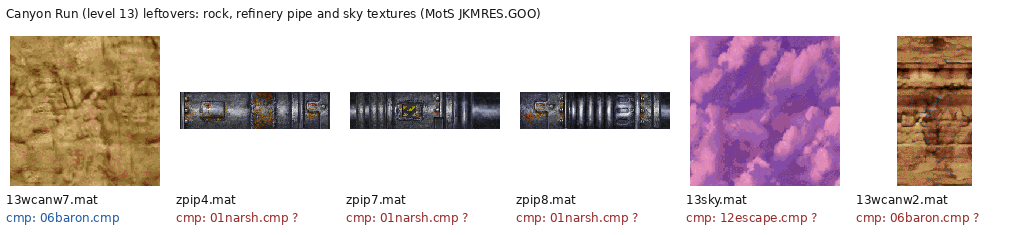
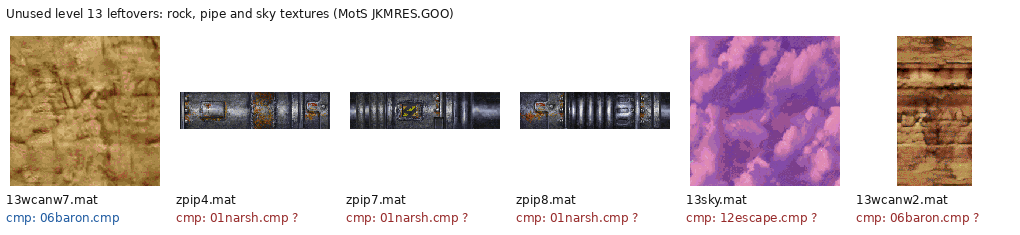
Draft v2.2: reword Findings 5 and 6 to game-file evidence only
Describe the cut level 13 from the 13pipes models, unused 13* textures,
and the episode numbering gap. Drop the former level title and any
other wording that did not come from the shipped files.

Changed region(s): [[0.0, 0.0298, 0.5471, 0.0894]]

diff --git a/tools/build_docs.py b/tools/build_docs.py
@@ -622,6 +622,7 @@ def appendix_g(mode: str) -> list[str]:
         "What changed:",
         "",
         "- Finding 2: the leftover level-05 Crow and TIE bomber animations are a paired sky dogfight; the transport animation is a path through the level. The written frame rates do not match, so the files as shipped would not finish together. Credited to Shimstock.",
+        "- Finding 5/6 reworded to rely only on game-file evidence.",
         "- Finding 7: dropped \"snowy\" as a fact about 16world. The pale colors came from a guessed MotS colormap; a complete JK colormap shows a dark valley and a tower, not snow. The colors are uncertain.",
         "- Finding 12: the voiceuu folder has 46 files, not 26. That includes 28 civilian, rebel and announcement clips (previously counted as 26), 15 Ka'Pa the Hutt lines in Huttese, and 3 Abron Mar lines from leftover in-engine cutscenes that the shipped episode never plays. Credited to Shimstock for the folder, and to a review of this catalogue for identifying Ka'Pa.",
         "- Finding 20: added rep0.3do, the repeater's earlier unused projectile. Credited to Shimstock.",

diff --git a/FINDINGS.md b/FINDINGS.md
@@ -21,8 +21,8 @@ A print-ready PDF and a zip of this version will be added on the [Releases](http
   - [3. A palette for the 05 sky textures](#finding-3)
   - [4. Other JK-era models that only ship with Mysteries of the Sith](#finding-4)
 - [B. Traces of other cut or reworked JK levels](#section-b)
-  - [5. The "13pipes" folder: props from the cut "Canyon Run" level](#finding-5)
-  - [6. Unused Canyon Run (level 13) textures](#finding-6)
+  - [5. The "13pipes" folder: props from the cut level 13](#finding-5)
+  - [6. Unused level 13 textures](#finding-6)
   - [7. 16world, 16vale and 16spir](#finding-7)
   - [8. The "06fall" set pieces](#finding-8)
 - [C. Unused dialogue](#section-c)
@@ -338,7 +338,7 @@ u2.3do:      same geometry as u2alt.3do (used); ug.3do: same geometry as ugalt.3
 ## B. Traces of other cut or reworked JK levels
 
 <a id="finding-5"></a>
-### 5. The "13pipes" folder: props from the cut "Canyon Run" level
+### 5. The "13pipes" folder: props from the cut level 13
 
 **Rating:** Likely new
 
@@ -349,9 +349,7 @@ u2.3do:      same geometry as u2alt.3do (used); ug.3do: same geometry as ugalt.3
 
 Three models come from a source folder named `LevelSpecific\13pipes\`: a canyon rock (13rock, textured with the 13wcanw7 canyon wall, a texture MotS later reused in s1l1_rebelbase), a pipe section (zpip, using zpip4/7/8) and wct3x4 (its two textures are missing). None of the three models is referenced by any file in either game, and no level-13 JKL ships in either game.
 
-Level 13 was "Canyon Run", a flying level on Sulon set right after level 12 (12escape, the escape from the cargo ship). The 1995 script, the 1996 storyboard ("The Sulon Canyons", scene 31 "Canyon Run") and the level description document describe it: the morning after the escape, Jan flies the Moldy Crow through canyons of rock and refinery while Kyle shoots TIE fighters from a top hatch. Flying too high draws fire from orbiting Star Destroyers, and the level ends by flying through the waterfall at Tankers Canyon.
-
-The 13pipes folder fits that description: canyon rock (13rock) and refinery pipes (zpip). The folder name and these models are the new part; they are the only known 3D leftovers of the level.
+The textures suggest a canyon setting: 13rock is a canyon-wall rock, and zpip is a pipe section. Together with the unused 13* textures in the next finding and the gap at slot 13 in the episode numbering (see the comments finding on the two level numberings), these are the file leftovers of a cut level 13. They are the only known 3D leftovers of that slot.
 
 **Evidence**
 
@@ -359,14 +357,11 @@ The 13pipes folder fits that description: canyon rock (13rock) and refinery pipe
 13rock.3do: ... 'D:\Jedi\Products\JK\Data\3DO\LevelSpecific\13pipes\13rock.prj in VISUAL mode with ver4.50.'
 zpip.3do:   ... '...\LevelSpecific\13pipes\Zpip.3do in VISUAL mode with ver4.11.'
 wct3x4.3do: ... '...\LevelSpecific\13pipes\wct3x4\Wct3x4.prj in VISUAL mode with ver4.60.'
-JK level description: "13 Canyon Run ... The level ends when you find the waterfall and fly through it."
-Objective: "2. Fly to the waterfall at Tankers Canyon."
 ```
 
 **Sources**
 
-- Level design: JK script (April 1995), JK storyboard (January 1996), "JK Levels Description" and "Jedi Knight Story" design documents.
-- Folder name and models: no earlier source found.
+- No earlier source found.
 
 ![13rock.3do](renders/13rock.png)
 
@@ -380,12 +375,12 @@ Objective: "2. Fly to the waterfall at Tankers Canyon."
 
 *wct3x4.3do (textures missing)*
 
-![Canyon Run textures: 13wcanw7 (13rock; MotS also reuses it in s1l1_rebelbase), zpip4/7/8 (zpip), 13sky (shown with JK 12escape.cmp, best guess) and a canyon wall](renders/swatch_13pipes.png)
+![Unused level 13 textures: 13wcanw7 (13rock; MotS also reuses it in s1l1_rebelbase), zpip4/7/8 (zpip), 13sky (shown with JK 12escape.cmp, best guess) and a canyon wall](renders/swatch_13pipes.png)
 
-*Canyon Run textures: 13wcanw7 (13rock; MotS also reuses it in s1l1_rebelbase), zpip4/7/8 (zpip), 13sky (shown with JK 12escape.cmp, best guess) and a canyon wall*
+*Unused level 13 textures: 13wcanw7 (13rock; MotS also reuses it in s1l1_rebelbase), zpip4/7/8 (zpip), 13sky (shown with JK 12escape.cmp, best guess) and a canyon wall*
 
 <a id="finding-6"></a>
-### 6. Unused Canyon Run (level 13) textures
+### 6. Unused level 13 textures
 
 **Rating:** Partly known
 
@@ -394,13 +389,13 @@ Objective: "2. Fly to the waterfall at Tankers Canyon."
 | MotS | Resource\JKMRES.GOO | mat\13wcanw1-6.mat, 13sky*.mat, 13fwat*.mat, 13wdrok*.mat, 13car*.mat, 13cnsky1/3.mat (41 files) |
 | JK | Resource\Res2.gob | mat\13frokg2.mat, mat\13wconc1.mat |
 
-MotS ships 43 textures with the 13 prefix that no MotS level loads. Checked against JK as well, 41 of them are unused in both games: canyon walls, skies, water, rock and a car/vehicle texture. They match the Canyon Run setting (Sulon canyons, a refinery, the Tankers Canyon waterfall). JK itself ships two more unused 13* textures (13frokg2, also copied into MotS, and 13wconc1). A selection is on the texture contact sheet in Appendix B.
+MotS ships 43 textures with the 13 prefix that no MotS level loads. Checked against JK as well, 41 of them are unused in both games: canyon walls, skies, water, rock and a car/vehicle texture. The textures suggest a canyon setting. JK itself ships two more unused 13* textures (13frokg2, also copied into MotS, and 13wconc1). A selection is on the texture contact sheet in Appendix B.
 
 Two are not unused: **13wcanw7** is used by MotS level s1l1_rebelbase, and MotS's copy of **13fwater** is byte-identical to the JK texture used in 04escapehouse, 06bbarons and 17asarris.
 
-The 13sky* textures are shown with JK 12escape.cmp, the colormap of level 12 (12escape), since Canyon Run is set on the same planet the morning after. That is a best guess.
+The 13sky* textures are shown with JK 12escape.cmp, the colormap of the preceding level 12 (12escape). That is a best guess.
 
-The 13cnsky set is different: it is a grey storm sky, and 13cnsky2 is used by shipped levels (15maw, 17asarris, 17bsarris, 18ascend and some multiplayer maps). Only 13cnsky1 and 13cnsky3 are unused, so this set should not be read as the Canyon Run sky.
+The 13cnsky set is different: it is a grey storm sky, and 13cnsky2 is used by shipped levels (15maw, 17asarris, 17bsarris, 18ascend and some multiplayer maps). Only 13cnsky1 and 13cnsky3 are unused, so this set should not be read as the cut level 13 sky.
 
 **Evidence**
 
@@ -1099,7 +1094,7 @@ Each finding below is classified. **Confirmed cut**: the comment shows that some
 
 The comments in JK's episode.jk number the 21 shipped levels one after another: 06ABarons.jkl is "Level 5", 06BBarons.jkl is "Level 6", 14tower.jkl is "Level 13" and 17asarris.jkl is "Level 16". The section headers in cogstrings.uni keep the old file numbers instead and simply skip two of them: "Level 4 - Escape Morgan's House" is followed by "Level 6a - Barons Hed", and "Level 12" is followed by "Level 14 - The tower Approach". 06a_startlevel.cog still says it starts the music "for level 5".
 
-The two missing numbers are exactly the two cut levels: 05 (the speeder-bike chase) and 13 (Canyon Run). The file names kept the original slots, and the player-facing numbering was closed up after the cuts. The cogstrings.uni headers also call the Katarn home "Morgan's House" and level 8 "Escape the Ballroom".
+The two missing numbers are exactly the two cut levels: 05 (the speeder-bike chase) and 13. The file names kept the original slots, and the player-facing numbering was closed up after the cuts. The cogstrings.uni headers also call the Katarn home "Morgan's House" and level 8 "Escape the Ballroom".
 
 **Evidence**
 
@@ -1806,6 +1801,7 @@ Thank you to community modder Shimstock for a set of notes that led to most of t
 What changed:
 
 - Finding 2: the leftover level-05 Crow and TIE bomber animations are a paired sky dogfight; the transport animation is a path through the level. The written frame rates do not match, so the files as shipped would not finish together. Credited to Shimstock.
+- Finding 5/6 reworded to rely only on game-file evidence.
 - Finding 7: dropped "snowy" as a fact about 16world. The pale colors came from a guessed MotS colormap; a complete JK colormap shows a dark valley and a tower, not snow. The colors are uncertain.
 - Finding 12: the voiceuu folder has 46 files, not 26. That includes 28 civilian, rebel and announcement clips (previously counted as 26), 15 Ka'Pa the Hutt lines in Huttese, and 3 Abron Mar lines from leftover in-engine cutscenes that the shipped episode never plays. Credited to Shimstock for the folder, and to a review of this catalogue for identifying Ka'Pa.
 - Finding 20: added rep0.3do, the repeater's earlier unused projectile. Credited to Shimstock.

diff --git a/docs/b-other-cut-levels.md b/docs/b-other-cut-levels.md
@@ -2,7 +2,7 @@
 
 <div class="finding-head" markdown="block">
 <span class="game-icons" aria-label="Mysteries of the Sith"><span class="game-icon game-icon--mots" title="Mysteries of the Sith">MotS</span></span>
-## 5. The "13pipes" folder: props from the cut "Canyon Run" level {#finding-5}
+## 5. The "13pipes" folder: props from the cut level 13 {#finding-5}
 </div>
 
 <p class="finding-rating">
@@ -17,9 +17,7 @@
 
 Three models come from a source folder named `LevelSpecific\13pipes\`: a canyon rock (13rock, textured with the 13wcanw7 canyon wall, a texture MotS later reused in s1l1_rebelbase), a pipe section (zpip, using zpip4/7/8) and wct3x4 (its two textures are missing). None of the three models is referenced by any file in either game, and no level-13 JKL ships in either game.
 
-Level 13 was "Canyon Run", a flying level on Sulon set right after level 12 (12escape, the escape from the cargo ship). The 1995 script, the 1996 storyboard ("The Sulon Canyons", scene 31 "Canyon Run") and the level description document describe it: the morning after the escape, Jan flies the Moldy Crow through canyons of rock and refinery while Kyle shoots TIE fighters from a top hatch. Flying too high draws fire from orbiting Star Destroyers, and the level ends by flying through the waterfall at Tankers Canyon.
-
-The 13pipes folder fits that description: canyon rock (13rock) and refinery pipes (zpip). The folder name and these models are the new part; they are the only known 3D leftovers of the level.
+The textures suggest a canyon setting: 13rock is a canyon-wall rock, and zpip is a pipe section. Together with the unused 13* textures in the next finding and the gap at slot 13 in the episode numbering (see the comments finding on the two level numberings), these are the file leftovers of a cut level 13. They are the only known 3D leftovers of that slot.
 
 **Evidence**
 
@@ -27,14 +25,11 @@ The 13pipes folder fits that description: canyon rock (13rock) and refinery pipe
 13rock.3do: ... 'D:\Jedi\Products\JK\Data\3DO\LevelSpecific\13pipes\13rock.prj in VISUAL mode with ver4.50.'
 zpip.3do:   ... '...\LevelSpecific\13pipes\Zpip.3do in VISUAL mode with ver4.11.'
 wct3x4.3do: ... '...\LevelSpecific\13pipes\wct3x4\Wct3x4.prj in VISUAL mode with ver4.60.'
-JK level description: "13 Canyon Run ... The level ends when you find the waterfall and fly through it."
-Objective: "2. Fly to the waterfall at Tankers Canyon."
 ```
 
 **Sources**
 
-- Level design: JK script (April 1995), JK storyboard (January 1996), "JK Levels Description" and "Jedi Knight Story" design documents.
-- Folder name and models: no earlier source found.
+- No earlier source found.
 
 <figure class="finding-figure" markdown="1">
 ![13rock.3do](renders/13rock.png)
@@ -52,13 +47,13 @@ Objective: "2. Fly to the waterfall at Tankers Canyon."
 </figure>
 
 <figure class="finding-figure" markdown="1">
-![Canyon Run textures: 13wcanw7 (13rock; MotS also reuses it in s1l1_rebelbase), zpip4/7/8 (zpip), 13sky (shown with JK 12escape.cmp, best guess) and a canyon wall](renders/swatch_13pipes.png)
-<figcaption>Canyon Run textures: 13wcanw7 (13rock; MotS also reuses it in s1l1_rebelbase), zpip4/7/8 (zpip), 13sky (shown with JK 12escape.cmp, best guess) and a canyon wall</figcaption>
+![Unused level 13 textures: 13wcanw7 (13rock; MotS also reuses it in s1l1_rebelbase), zpip4/7/8 (zpip), 13sky (shown with JK 12escape.cmp, best guess) and a canyon wall](renders/swatch_13pipes.png)
+<figcaption>Unused level 13 textures: 13wcanw7 (13rock; MotS also reuses it in s1l1_rebelbase), zpip4/7/8 (zpip), 13sky (shown with JK 12escape.cmp, best guess) and a canyon wall</figcaption>
 </figure>
 
 <div class="finding-head" markdown="block">
 <span class="game-icons" aria-label="Jedi Knight and Mysteries of the Sith"><span class="game-icon game-icon--jk" title="Jedi Knight">JK</span> <span class="game-icon game-icon--mots" title="Mysteries of the Sith">MotS</span></span>
-## 6. Unused Canyon Run (level 13) textures {#finding-6}
+## 6. Unused level 13 textures {#finding-6}
 </div>
 
 <p class="finding-rating">
@@ -71,13 +66,13 @@ Objective: "2. Fly to the waterfall at Tankers Canyon."
 | MotS | Resource\JKMRES.GOO | mat\13wcanw1-6.mat, 13sky*.mat, 13fwat*.mat, 13wdrok*.mat, 13car*.mat, 13cnsky1/3.mat (41 files) |
 | JK | Resource\Res2.gob | mat\13frokg2.mat, mat\13wconc1.mat |
 
-MotS ships 43 textures with the 13 prefix that no MotS level loads. Checked against JK as well, 41 of them are unused in both games: canyon walls, skies, water, rock and a car/vehicle texture. They match the Canyon Run setting (Sulon canyons, a refinery, the Tankers Canyon waterfall). JK itself ships two more unused 13* textures (13frokg2, also copied into MotS, and 13wconc1). A selection is on the texture contact sheet in Appendix B.
+MotS ships 43 textures with the 13 prefix that no MotS level loads. Checked against JK as well, 41 of them are unused in both games: canyon walls, skies, water, rock and a car/vehicle texture. The textures suggest a canyon setting. JK itself ships two more unused 13* textures (13frokg2, also copied into MotS, and 13wconc1). A selection is on the texture contact sheet in Appendix B.
 
 Two are not unused: **13wcanw7** is used by MotS level s1l1_rebelbase, and MotS's copy of **13fwater** is byte-identical to the JK texture used in 04escapehouse, 06bbarons and 17asarris.
 
-The 13sky* textures are shown with JK 12escape.cmp, the colormap of level 12 (12escape), since Canyon Run is set on the same planet the morning after. That is a best guess.
+The 13sky* textures are shown with JK 12escape.cmp, the colormap of the preceding level 12 (12escape). That is a best guess.
 
-The 13cnsky set is different: it is a grey storm sky, and 13cnsky2 is used by shipped levels (15maw, 17asarris, 17bsarris, 18ascend and some multiplayer maps). Only 13cnsky1 and 13cnsky3 are unused, so this set should not be read as the Canyon Run sky.
+The 13cnsky set is different: it is a grey storm sky, and 13cnsky2 is used by shipped levels (15maw, 17asarris, 17bsarris, 18ascend and some multiplayer maps). Only 13cnsky1 and 13cnsky3 are unused, so this set should not be read as the cut level 13 sky.
 
 **Evidence**
 

diff --git a/CHANGELOG.md b/CHANGELOG.md
@@ -5,6 +5,7 @@
 Thank you to community modder Shimstock for a set of notes that led to most of the additions and corrections below, and to Cogking, a developer on the original game who helped create the COG scripting language, for confirming that the Jedi Knight developers were experimenting with a saber throw.
 
 - Finding 2: the leftover level-05 Crow and TIE bomber animations are a paired sky dogfight; the transport animation is a path through the level. The written frame rates do not match, so the files as shipped would not finish together. Credited to Shimstock.
+- Finding 5/6 reworded to rely only on game-file evidence.
 - Finding 7: dropped "snowy" as a fact about 16world. The pale colors came from a guessed MotS colormap; a complete JK colormap shows a dark valley and a tower, not snow. The colors are uncertain.
 - Finding 12: the voiceuu folder has 46 files, not 26. That includes 28 civilian, rebel and announcement clips (previously counted as 26), 15 Ka'Pa the Hutt lines in Huttese, and 3 Abron Mar lines from leftover in-engine cutscenes that the shipped episode never plays. Credited to Shimstock for the folder, and to a review of this catalogue for identifying Ka'Pa.
 - Finding 20: added `rep0.3do`, the repeater's earlier unused projectile. Credited to Shimstock.

diff --git a/docs/g-hints-in-comments.md b/docs/g-hints-in-comments.md
@@ -25,7 +25,7 @@ Each finding below is classified. **Confirmed cut**: the comment shows that some
 
 The comments in JK's episode.jk number the 21 shipped levels one after another: 06ABarons.jkl is "Level 5", 06BBarons.jkl is "Level 6", 14tower.jkl is "Level 13" and 17asarris.jkl is "Level 16". The section headers in cogstrings.uni keep the old file numbers instead and simply skip two of them: "Level 4 - Escape Morgan's House" is followed by "Level 6a - Barons Hed", and "Level 12" is followed by "Level 14 - The tower Approach". 06a_startlevel.cog still says it starts the music "for level 5".
 
-The two missing numbers are exactly the two cut levels: 05 (the speeder-bike chase) and 13 (Canyon Run). The file names kept the original slots, and the player-facing numbering was closed up after the cuts. The cogstrings.uni headers also call the Katarn home "Morgan's House" and level 8 "Escape the Ballroom".
+The two missing numbers are exactly the two cut levels: 05 (the speeder-bike chase) and 13. The file names kept the original slots, and the player-facing numbering was closed up after the cuts. The cogstrings.uni headers also call the Katarn home "Morgan's House" and level 8 "Escape the Ballroom".
 
 **Evidence**
 

diff --git a/docs/appendix-g-changelog.md b/docs/appendix-g-changelog.md
@@ -39,6 +39,7 @@ Thank you to community modder Shimstock for a set of notes that led to most of t
 What changed:
 
 - Finding 2: the leftover level-05 Crow and TIE bomber animations are a paired sky dogfight; the transport animation is a path through the level. The written frame rates do not match, so the files as shipped would not finish together. Credited to Shimstock.
+- Finding 5/6 reworded to rely only on game-file evidence.
 - Finding 7: dropped "snowy" as a fact about 16world. The pale colors came from a guessed MotS colormap; a complete JK colormap shows a dark valley and a tower, not snow. The colors are uncertain.
 - Finding 12: the voiceuu folder has 46 files, not 26. That includes 28 civilian, rebel and announcement clips (previously counted as 26), 15 Ka'Pa the Hutt lines in Huttese, and 3 Abron Mar lines from leftover in-engine cutscenes that the shipped episode never plays. Credited to Shimstock for the folder, and to a review of this catalogue for identifying Ka'Pa.
 - Finding 20: added rep0.3do, the repeater's earlier unused projectile. Credited to Shimstock.
